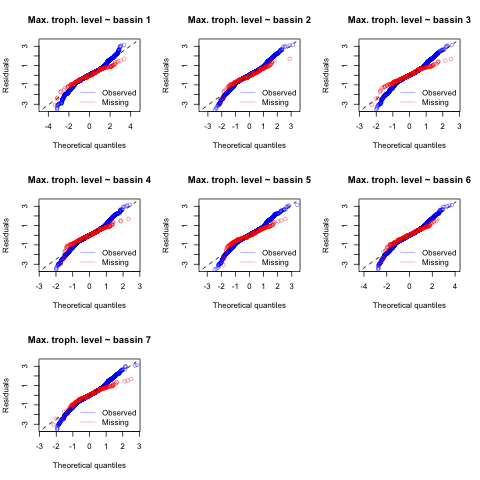
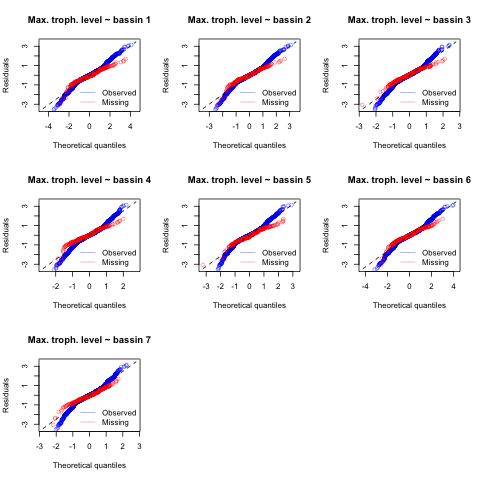
Polished figures and readme

diff --git a/riverlake/BM/b0_5/README.md b/riverlake/BM/b0_5/README.md
@@ -30,7 +30,7 @@ We use a hierarchical Bayesian modelling approach. The linear predictive model i
 
 $$ Yobs_{ij} \sim \mathcal{N}(\hat{Y}obs_{i},\Sigma_j) $$
 
-$$ \hat{Y}obs_{i} = \beta_0 + year_i + temp_i + temp_i^2 + type_i + type_i \times temp_i + dbo_i + dbo_i^2 + type_i \times dbo_i + dbo_i \times temp_i + alt_i + rich_i $$
+$$ \hat{Y}obs_{i} = \beta_0 + year_i + temp_i + temp_i^2 + type_i + type_i \times temp_i + dbo_i + dbo_i^2 + type_i \times dbo_i + temp_i \times dbo_i + alt_i + rich_i $$
 
 where 
 $\beta_0$
@@ -54,7 +54,7 @@ We use a slightly different model to account for missing DBO observations:
 
 $$ Ymis_{ij} \sim \mathcal{N}(\hat{Y}mis_{i},\Sigma_j) $$
 
-$$ \hat{Y}mis_{i} = \beta_0 + year_i + temp_i + temp_i^2 + type_i + type_i \times temp_i + x_{mis,i} + x_{mis,i}^2 + type_i \times x_{mis,i} + alt_i $$
+$$ \hat{Y}mis_{i} = \beta_0 + year_i + temp_i + temp_i^2 + type_i + type_i \times temp_i + x_{mis,i} + x_{mis,i}^2 + type_i \times x_{mis,i} + temp_i \times x_{mis,i} + alt_i + rich_i$$
 
 $$ x_{mis,i} \sim \mathcal{N}(\mu_{mis},\sigma_{mis}) $$
 
@@ -103,6 +103,14 @@ hydrographic bassin.
 ![This is an image](https://github.com/WillemBonnaffe/RESOTRO/blob/main/riverlake/BM/b0_5/out_conne_model_0/fig_2.png)
 ![This is an image](https://github.com/WillemBonnaffe/RESOTRO/blob/main/riverlake/BM/b0_5/out_maxTL_model_0/fig_1.png)
 ![This is an image](https://github.com/WillemBonnaffe/RESOTRO/blob/main/riverlake/BM/b0_5/out_maxTL_model_0/fig_2.png)
+![This is an image](https://github.com/WillemBonnaffe/RESOTRO/blob/main/riverlake/BM/b0_5/out_conne_model_0/fig_7.png)
+![This is an image](https://github.com/WillemBonnaffe/RESOTRO/blob/main/riverlake/BM/b0_5/out_maxTL_model_0/fig_7.png)
+
+For connectance, we find limited support for an effect of temperature as the interaction temperature by type, the linear and quadratic effect of temperature, as well as interaction with dbo were not found to be significant.
+We find a linear effect of dbo, but not quadratic.
+We find no evidence either for an effect of year on connectance.
+
+For maximum trophic level, only the quadratic effect of temperature is not significant. 
 
 Parameters mean estimates and confidence interval can be found here:
 https://github.com/WillemBonnaffe/RESOTRO/blob/main/riverlake/BM/b0_5/out_conne_model_0/summary.csv
@@ -123,5 +131,6 @@ The under-dispersion of missing DBO residuals has been cured.
 ![This is an image](https://github.com/WillemBonnaffe/RESOTRO/blob/main/riverlake/BM/b0_5/out_conne_model_0/fig_5.png)
 ![This is an image](https://github.com/WillemBonnaffe/RESOTRO/blob/main/riverlake/BM/b0_5/out_maxTL_model_0/fig_4.png)
 ![This is an image](https://github.com/WillemBonnaffe/RESOTRO/blob/main/riverlake/BM/b0_5/out_maxTL_model_0/fig_5.png)
+
 
 
